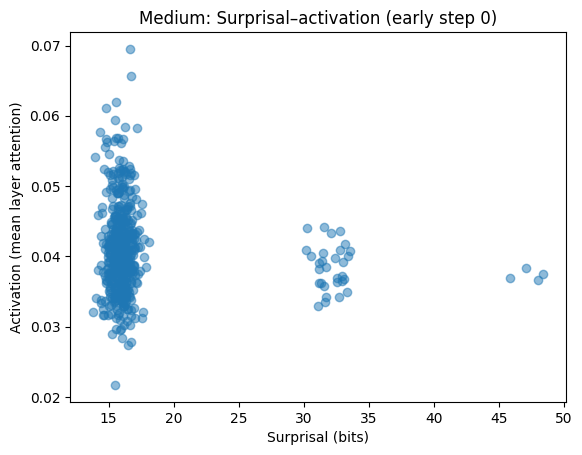
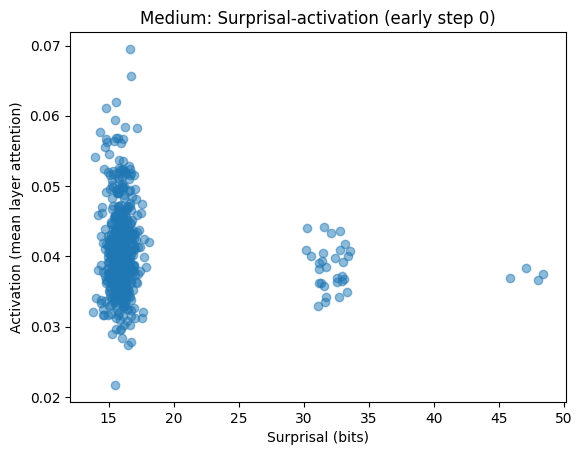
added per word surprisal vs proportion

Changed region(s): [[0.2165, 0.0308, 0.866, 0.0615]]

diff --git a/src/experiments/plot.py b/src/experiments/plot.py
@@ -32,6 +32,27 @@ def load_wordbank_aoa(csv_path: str) -> Dict[str, float]:
     return word_to_aoa
 
 
+def load_wordbank_curves(csv_path: str) -> Tuple[List[int], Dict[str, np.ndarray]]:
+    df = pd.read_csv(csv_path)
+    aoa_cols = [c for c in df.columns if c.isdigit()]
+    aoa_cols_sorted = sorted(aoa_cols, key=lambda x: int(x))
+    months = [int(c) for c in aoa_cols_sorted]
+    word_to_curve: Dict[str, np.ndarray] = {}
+    for _, row in df.iterrows():
+        word = str(row["item_definition"]).strip().lower()
+        if not word:
+            continue
+        vals = []
+        for col in aoa_cols_sorted:
+            v = row[col]
+            try:
+                vals.append(float(v))
+            except (TypeError, ValueError):
+                vals.append(math.nan)
+        word_to_curve[word] = np.array(vals, dtype=float)
+    return months, word_to_curve
+
+
 def load_owt_counts(path: str) -> Dict[str, int]:
     counts = {}
     with open(path, encoding="utf-8") as f:
@@ -189,6 +210,7 @@ def main():
 
     word_aoa = load_wordbank_aoa(args.wordbank_csv)
     owt_counts = load_owt_counts(args.owt_words_txt)
+    months, word_to_curve = load_wordbank_curves(args.wordbank_csv)
 
     steps_small, small_surpr, small_act, label_type_small = load_results_dir(args.small_dir)
     steps_medium, medium_surpr, medium_act, label_type_medium = load_results_dir(args.medium_dir)
@@ -291,39 +313,88 @@ def main():
         else:
             fout.write("No overlapping words for LLM AoA curves.\n")
 
-        fout.write("\Child AoA vs LLM AoA scatter:\n")
+        fout.write("\nChild trajectories vs LLM surprisal (per word):\n")
         if common_for_aoa:
-            x_aoa = []
-            y_small_aoa = []
-            y_medium_aoa = []
+            max_words_side_by_side = 50
+            n_plotted = 0
+            margin_idx = 2
             for w in common_for_aoa:
-                if w not in word_aoa:
+                if w not in word_to_curve:
                     continue
-                x_aoa.append(word_aoa[w])
-                y_small_aoa.append(aoa_small[w])
-                y_medium_aoa.append(aoa_medium[w])
-            x_aoa = np.array(x_aoa, dtype=float)
-            y_small_aoa = np.array(y_small_aoa, dtype=float)
-            y_medium_aoa = np.array(y_medium_aoa, dtype=float)
-            fig_aoa = plt.figure()
-            plt.scatter(x_aoa, y_small_aoa, label="gpt2-small", alpha=0.5)
-            plt.scatter(x_aoa, y_medium_aoa, label="gpt2-medium", alpha=0.5)
-            plt.xlabel("Child AoA (months, Wordbank)")
-            plt.ylabel("LLM AoA (normalized training step)")
-            plt.title("Child AoA vs LLM AoA")
-            plt.legend()
-            out_path_aoa = os.path.join(args.out_dir, "child_aoa_vs_llm_aoa.png")
-            fig_aoa.savefig(out_path_aoa, bbox_inches="tight")
-            plt.close(fig_aoa)
-            if len(x_aoa) > 1:
-                corr_small = np.corrcoef(x_aoa, y_small_aoa)[0, 1]
-                corr_medium = np.corrcoef(x_aoa, y_medium_aoa)[0, 1]
-            else:
-                corr_small = math.nan
-                corr_medium = math.nan
-            fout.write(f"  n_words={len(x_aoa)}, corr_small={corr_small:.4f}, corr_medium={corr_medium:.4f}\n")
+                child_curve = word_to_curve[w]
+                if not np.isfinite(child_curve).any():
+                    continue
+                s_small = np.array(small_surpr[w], dtype=float)
+                s_medium = np.array(medium_surpr[w], dtype=float)
+                if not (np.isfinite(s_small).any() or np.isfinite(s_medium).any()):
+                    continue
+
+                steps_small_arr = np.array(steps_small, dtype=float)
+                steps_medium_arr = np.array(steps_medium, dtype=float)
+
+                def crop_with_threshold(s, steps_arr, baseline_bits, margin_idx):
+                    s = np.array(s, dtype=float)
+                    if not np.isfinite(s).any():
+                        return None, None, None, None
+                    s_min = float(np.nanmin(s))
+                    thr = 0.5 * (baseline_bits + s_min)
+                    idx_cross = None
+                    for j, v in enumerate(s):
+                        if np.isfinite(v) and v <= thr:
+                            idx_cross = j
+                            break
+                    if idx_cross is None:
+                        idx_cross = len(s) - 1
+                    end_idx = min(idx_cross + margin_idx, len(s) - 1)
+                    s_crop = s[:end_idx + 1]
+                    steps_crop = steps_arr[:end_idx + 1]
+                    return s_crop, steps_crop, thr, idx_cross
+
+                s_small_crop, steps_small_crop, thr_small, idx_small = crop_with_threshold(
+                    s_small, steps_small_arr, args.baseline_bits, margin_idx
+                )
+                s_medium_crop, steps_medium_crop, thr_medium, idx_medium = crop_with_threshold(
+                    s_medium, steps_medium_arr, args.baseline_bits, margin_idx
+                )
+
+                if s_small_crop is None and s_medium_crop is None:
+                    continue
+
+                fig, axes = plt.subplots(1, 2, figsize=(8, 3))
+
+                if s_small_crop is not None and len(s_small_crop) > 0:
+                    axes[0].plot(steps_small_crop, s_small_crop, label="gpt2-small")
+                    if thr_small is not None:
+                        axes[0].axhline(thr_small, linestyle="--", linewidth=1, color="cornflowerblue")
+                if s_medium_crop is not None and len(s_medium_crop) > 0:
+                    axes[0].plot(steps_medium_crop, s_medium_crop, label="gpt2-medium")
+                    if thr_medium is not None:
+                        axes[0].axhline(thr_medium, linestyle="--", linewidth=1, color="orange")
+
+                axes[0].set_xlabel(label_type_small or "step")
+                axes[0].set_ylabel("Surprisal (bits)")
+                axes[0].set_title(f"{w} - LLM surprisal")
+                axes[0].legend()
+                axes[0].invert_yaxis()
+
+                axes[1].plot(months, child_curve, marker="o")
+                axes[1].axhline(0.5, linestyle="--", linewidth=1, color="cornflowerblue")
+                axes[1].set_xlabel("Age (months)")
+                axes[1].set_ylabel("Proportion producing")
+                axes[1].set_ylim(0.0, 1.0)
+                axes[1].set_title(f"{w} - children")
+
+                fig.tight_layout()
+                safe_w = re.sub(r"[^A-Za-z0-9]+", "_", w).strip("_")
+                out_path_word = os.path.join(args.out_dir, f"word_{safe_w}_child_vs_llm.png")
+                fig.savefig(out_path_word, bbox_inches="tight")
+                plt.close(fig)
+                n_plotted += 1
+                if n_plotted >= max_words_side_by_side:
+                    break
+            fout.write(f"  Side-by-side plots saved for {n_plotted} words.\n")
         else:
-            fout.write("  No words for child vs LLM AoA scatter.\n")
+            fout.write("  No words for child vs LLM per-word plots.\n")
 
         fout.write("\nSurprisal trajectories stratified by child AoA bins:\n")
         bins = [("early", 16, 20), ("mid", 21, 24), ("late", 25, 30)]
@@ -375,6 +446,7 @@ def main():
             late_idx_m, late_step_m = len(steps_medium) - 1, steps_medium[-1]
             freq_words = [w for w in simple_ranking if w in owt_counts]
             fout.write(f"  Words with OWT frequency among used: {len(freq_words)}\n")
+
             def build_xy(model_surpr, idx, words):
                 xs = []
                 ys = []
@@ -388,10 +460,12 @@ def main():
                     xs.append(math.log10(c))
                     ys.append(s_val)
                 return np.array(xs, dtype=float), np.array(ys, dtype=float)
+
             x_s_early, y_s_early = build_xy(small_surpr, early_idx_s, freq_words)
             x_s_late, y_s_late = build_xy(small_surpr, late_idx_s, freq_words)
             x_m_early, y_m_early = build_xy(medium_surpr, early_idx_m, freq_words)
             x_m_late, y_m_late = build_xy(medium_surpr, late_idx_m, freq_words)
+
             fig_freq_early = plt.figure()
             if len(x_s_early) > 0:
                 plt.scatter(x_s_early, y_s_early, label=f"small (step {early_step_s})", alpha=0.5)
@@ -404,6 +478,7 @@ def main():
             out_freq_early = os.path.join(args.out_dir, "surprisal_vs_freq_early.png")
             fig_freq_early.savefig(out_freq_early, bbox_inches="tight")
             plt.close(fig_freq_early)
+
             fig_freq_late = plt.figure()
             if len(x_s_late) > 0:
                 plt.scatter(x_s_late, y_s_late, label=f"small (step {late_step_s})", alpha=0.5)
@@ -416,10 +491,12 @@ def main():
             out_freq_late = os.path.join(args.out_dir, "surprisal_vs_freq_late.png")
             fig_freq_late.savefig(out_freq_late, bbox_inches="tight")
             plt.close(fig_freq_late)
+
             def corr_safe(x, y):
                 if len(x) > 1:
                     return float(np.corrcoef(x, y)[0, 1])
                 return math.nan
+
             fout.write(
                 f"  corr_small_early={corr_safe(x_s_early, y_s_early):.4f}, corr_small_late={corr_safe(x_s_late, y_s_late):.4f}\n"
             )
@@ -429,7 +506,8 @@ def main():
         else:
             fout.write("  No words for surprisal vs OWT frequency.\n")
 
-        fout.write("\nSurprisal–activation coupling (early vs late):\n")
+        fout.write("\nSurprisal-activation coupling (early vs late):\n")
+
         def build_supr_act(model_surpr, model_act, idx, words):
             xs = []
             ys = []
@@ -441,55 +519,63 @@ def main():
                 xs.append(s_val)
                 ys.append(a_val)
             return np.array(xs, dtype=float), np.array(ys, dtype=float)
+
         if simple_ranking:
             early_idx_s, early_step_s = 0, steps_small[0]
             late_idx_s, late_step_s = len(steps_small) - 1, steps_small[-1]
             early_idx_m, early_step_m = 0, steps_medium[0]
             late_idx_m, late_step_m = len(steps_medium) - 1, steps_medium[-1]
+
             x_se, y_se = build_supr_act(small_surpr, small_act, early_idx_s, simple_ranking)
             x_sl, y_sl = build_supr_act(small_surpr, small_act, late_idx_s, simple_ranking)
             x_me, y_me = build_supr_act(medium_surpr, medium_act, early_idx_m, simple_ranking)
             x_ml, y_ml = build_supr_act(medium_surpr, medium_act, late_idx_m, simple_ranking)
+
             fig_sa_se = plt.figure()
             if len(x_se) > 0:
                 plt.scatter(x_se, y_se, alpha=0.5)
             plt.xlabel("Surprisal (bits)")
             plt.ylabel("Activation (mean layer attention)")
-            plt.title(f"Small: Surprisal–activation (early step {early_step_s})")
+            plt.title(f"Small: Surprisal-activation (early step {early_step_s})")
             out_sa_se = os.path.join(args.out_dir, "surprisal_activation_small_early.png")
             fig_sa_se.savefig(out_sa_se, bbox_inches="tight")
             plt.close(fig_sa_se)
+
             fig_sa_sl = plt.figure()
             if len(x_sl) > 0:
                 plt.scatter(x_sl, y_sl, alpha=0.5)
             plt.xlabel("Surprisal (bits)")
             plt.ylabel("Activation (mean layer attention)")
-            plt.title(f"Small: Surprisal–activation (late step {late_step_s})")
+            plt.title(f"Small: Surprisal-activation (late step {late_step_s})")
             out_sa_sl = os.path.join(args.out_dir, "surprisal_activation_small_late.png")
             fig_sa_sl.savefig(out_sa_sl, bbox_inches="tight")
             plt.close(fig_sa_sl)
+
             fig_sa_me = plt.figure()
             if len(x_me) > 0:
                 plt.scatter(x_me, y_me, alpha=0.5)
             plt.xlabel("Surprisal (bits)")
             plt.ylabel("Activation (mean layer attention)")
-            plt.title(f"Medium: Surprisal–activation (early step {early_step_m})")
+            plt.title(f"Medium: Surprisal-activation (early step {early_step_m})")
             out_sa_me = os.path.join(args.out_dir, "surprisal_activation_medium_early.png")
             fig_sa_me.savefig(out_sa_me, bbox_inches="tight")
             plt.close(fig_sa_me)
+
             fig_sa_ml = plt.figure()
             if len(x_ml) > 0:
                 plt.scatter(x_ml, y_ml, alpha=0.5)
             plt.xlabel("Surprisal (bits)")
             plt.ylabel("Activation (mean layer attention)")
-            plt.title(f"Medium: Surprisal–activation (late step {late_step_m})")
+            plt.title(f"Medium: Surprisal-activation (late step {late_step_m})")
             out_sa_ml = os.path.join(args.out_dir, "surprisal_activation_medium_late.png")
             fig_sa_ml.savefig(out_sa_ml, bbox_inches="tight")
             plt.close(fig_sa_ml)
+
             def corr_safe2(x, y):
                 if len(x) > 1:
                     return float(np.corrcoef(x, y)[0, 1])
                 return math.nan
+
             fout.write(
                 f"  small_early_corr={corr_safe2(x_se, y_se):.4f}, small_late_corr={corr_safe2(x_sl, y_sl):.4f}\n"
             )
@@ -497,7 +583,7 @@ def main():
                 f"  medium_early_corr={corr_safe2(x_me, y_me):.4f}, medium_late_corr={corr_safe2(x_ml, y_ml):.4f}\n"
             )
         else:
-            fout.write("  No words for surprisal–activation coupling.\n")
+            fout.write("  No words for surprisal-activation coupling.\n")
 
 
 if __name__ == "__main__":
